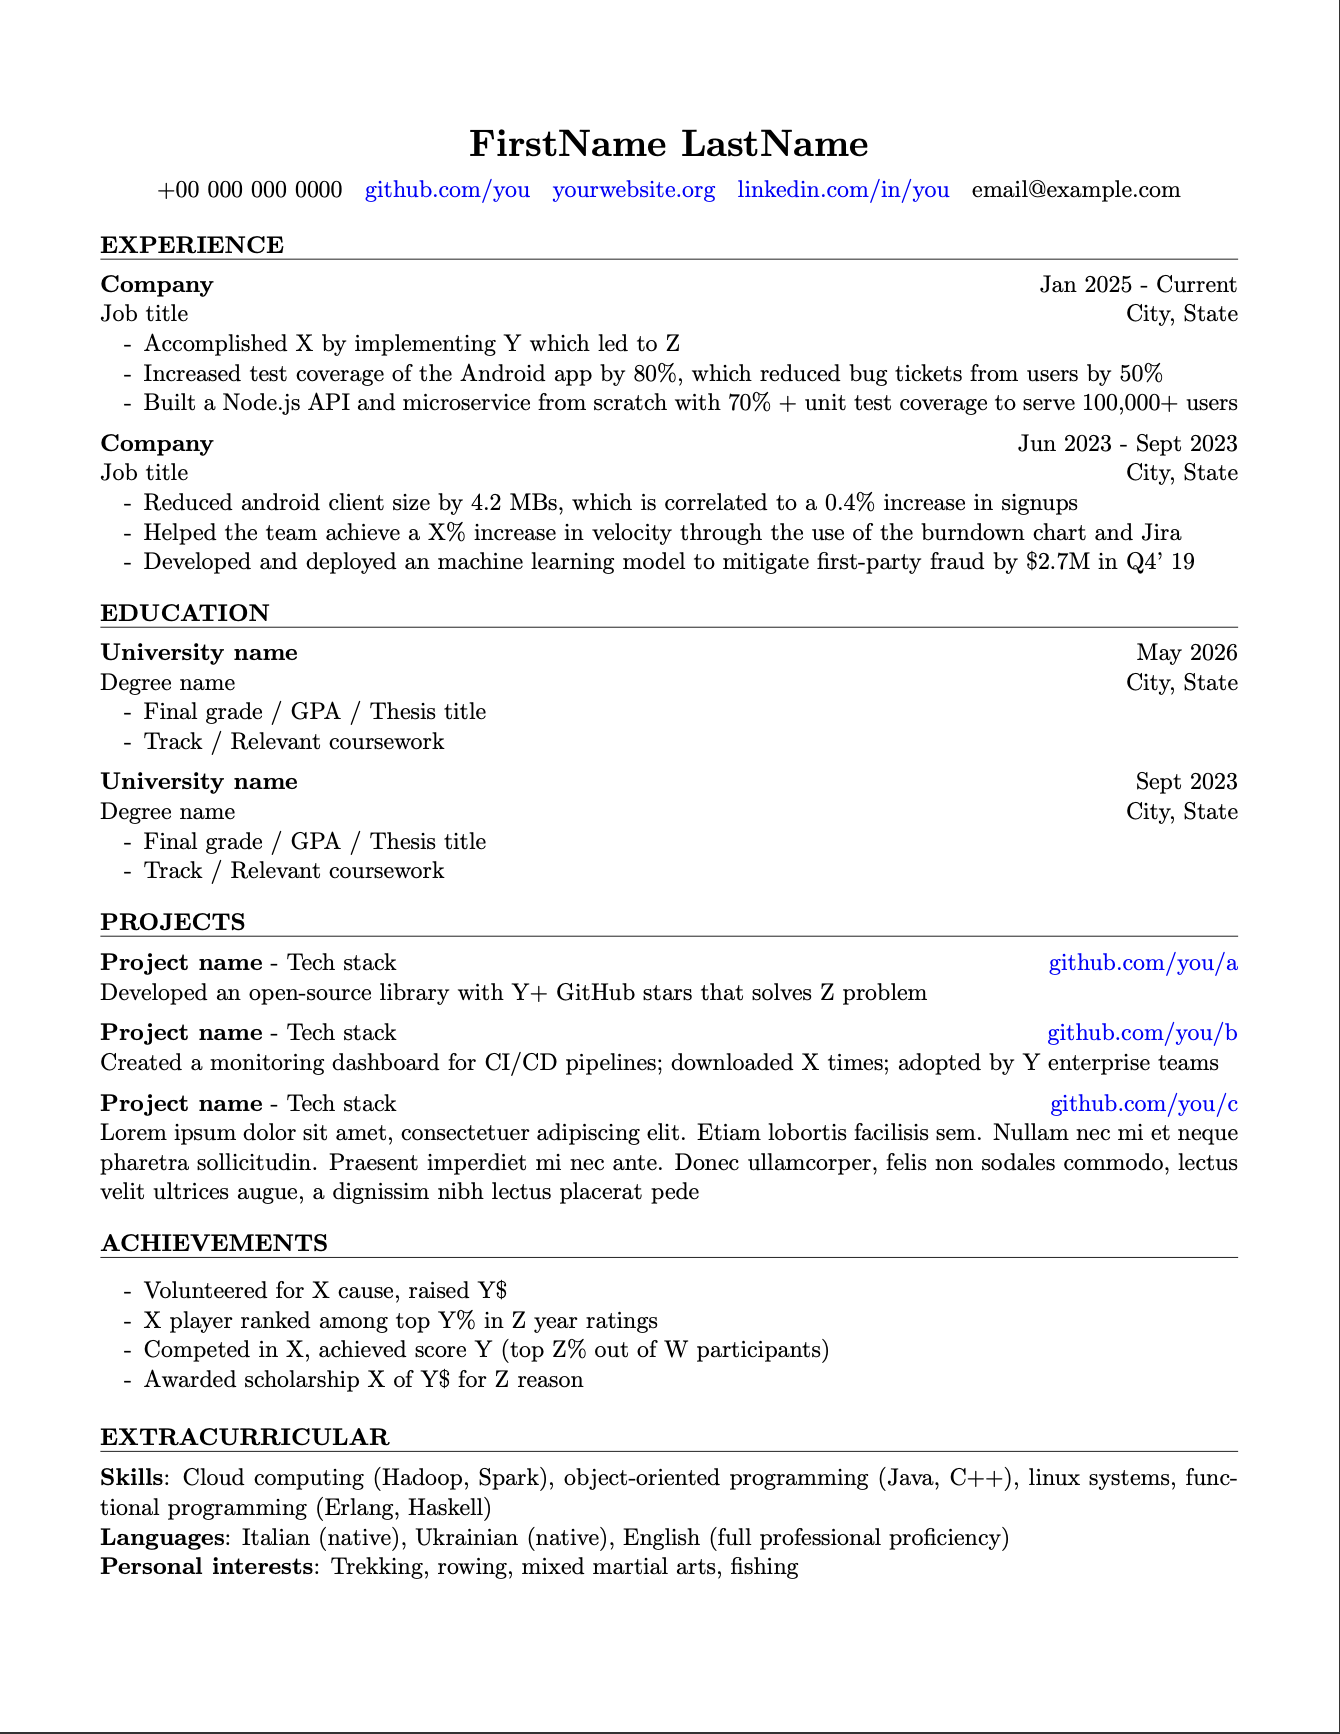
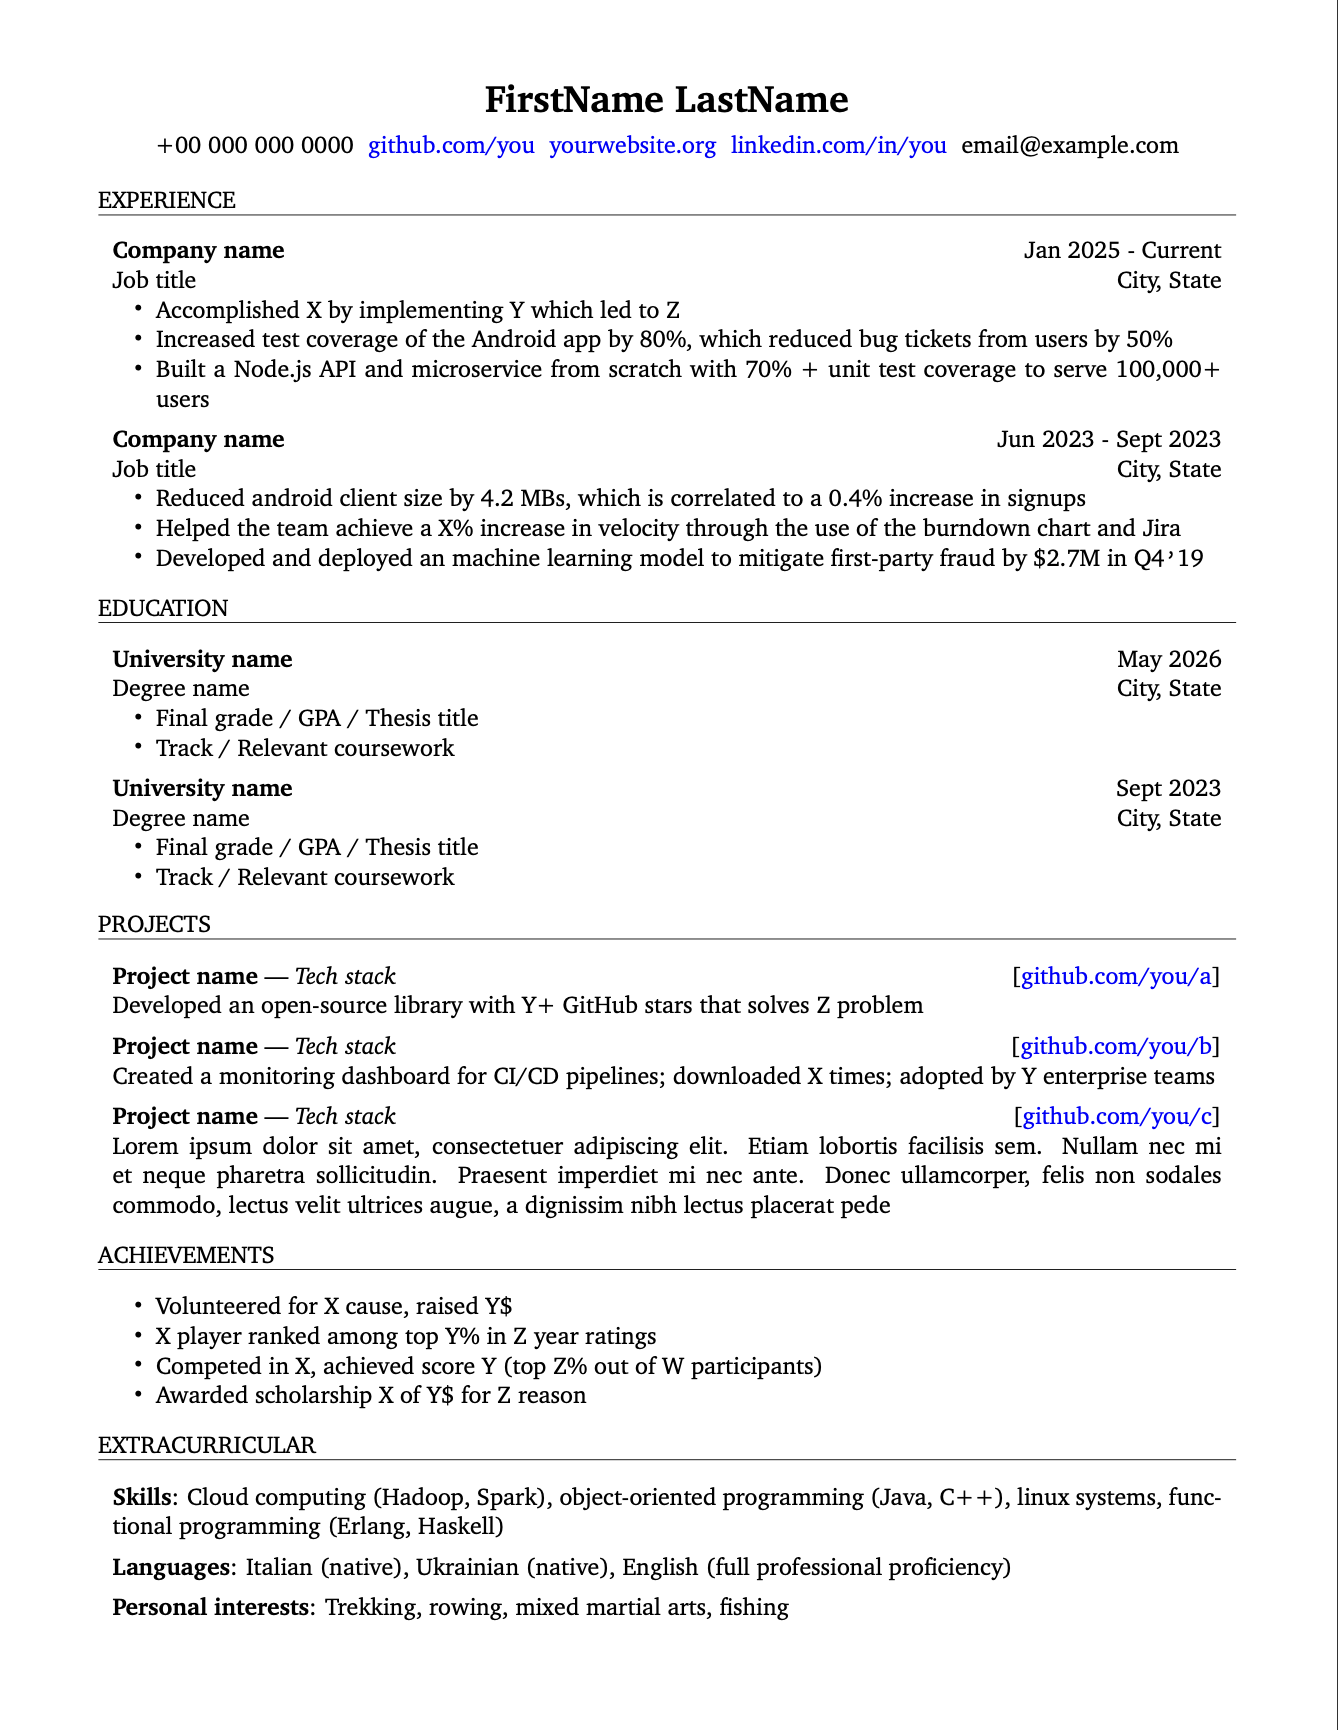
Minor appearance tweaks

diff --git a/main.tex b/main.tex
@@ -18,9 +18,10 @@
 % --- PACKAGES ---
 
 % Packages expand the functionality of plain LaTeX. We are only going to use the bare minimum:
-\usepackage{geometry} % A standard package for adjusting the layout of the document
-\usepackage{hyperref} % Clickable links/urls
-\usepackage{enumitem} % Gives fine control over lists
+\usepackage{charter}    % A better looking font (IMO, feel free to remove)
+\usepackage{geometry}   % A standard package for adjusting the layout of the document
+\usepackage{hyperref}   % Clickable links/urls
+\usepackage{enumitem}   % Gives fine control over lists
 
 % --- PACKAGES SETTINGS ---
 
@@ -31,8 +32,8 @@
     % Not that big of a deal IMO, no one prints CVs nowadays. Change only if you have a reason to
     left=0.075\paperwidth,
     right=0.075\paperwidth,
-    top=0.075\paperheight,
-    bottom=0.075\paperheight
+    top=0.05\paperheight,
+    bottom=0.05\paperheight
     % Margins are expressed in percentages relative to the paper dimensions.
     % You can also specify the margins in millimiter (mm), inches (in) or points (pt)
 }
@@ -44,7 +45,8 @@
 }
 
 \setlist[itemize]{
-    label=-,          % If you want normal bullet points use \textbullet instead of -
+    % A slightly smaller bullet point instead, raised to be center aligned with the text
+    label=\raisebox{1pt}{\footnotesize\textbullet},
     topsep=0pt,       % No space above/below the list
     itemsep=0pt,      % No space between items
     parsep=0pt,       % No space within items
@@ -54,12 +56,18 @@
 % --- CUSTOM COMMANDS ---
 
 \newcommand
-{\newsection}[1]{
-    \vspace{10pt}   % Vertical space to separate from the section above
-    \textbf{#1}     % The section title (passed as the only [1] argument)
-    \vspace{3pt}    
+{\opensection}[1]{
+    \uppercase{#1}  % The section title (passed as the only [1] argument)
+    \vspace{3pt}    % Vertical space to separate from the section above
     \hrule          % An horizontal line
-    \vspace{7pt}
+    \begin{center}  % Slightly offset the contents of the section
+    \begin{minipage}[]{0.975\textwidth}
+}
+
+\newcommand
+{\closesection}{
+    \end{minipage}
+    \end{center}
 }
 
 \newcommand
@@ -103,10 +111,7 @@
 
 % --- EXPERIENCE ---
 
-\vspace{-10pt} 
-% Balances the vspace introduce by the \newsection tag (it's the first section)
-
-\newsection{EXPERIENCE}
+\opensection{Experience}
 
 \textbf{Company name} \hfill Jan 2025 - Current \\
 Job title \hfill City, State
@@ -124,12 +129,14 @@ Job title \hfill City, State
 \begin{itemize}
     \item Reduced android client size by 4.2 MBs, which is correlated to a 0.4\% increase in signups
     \item Helped the team achieve a X\% increase in velocity through the use of the burndown chart and Jira
-    \item Developed and deployed an machine learning model to mitigate first-party fraud by \$2.7M in Q4' 19
+    \item Developed and deployed an machine learning model to mitigate first-party fraud by \$2.7M in Q4\texttt{'}19
 \end{itemize}
+
+\closesection
 
 % --- EDUCATION ---
 
-\newsection{EDUCATION}
+\opensection{Education}
 
 \textbf{University name} \hfill May 2026 \\
 Degree name \hfill City, State
@@ -151,29 +158,33 @@ Degree name \hfill City, State
     \item Track / Relevant coursework
 \end{itemize}
 
+\closesection
+
 % --- PROJECTS ---
 
-\newsection{PROJECTS}
+\opensection{Projects}
 
-\textbf{Project name} - Tech stack
-\hfill \href{https://github.com/you}{github.com/you/a} \\
+\textbf{Project name} | \textit{Tech stack}
+\hfill [\href{https://github.com/you}{github.com/you/a}] \\
 Developed an open-source library with Y+ GitHub stars that solves Z problem
 
 \smallvspace
 
-\textbf{Project name} - Tech stack
-\hfill \href{https://github.com/you}{github.com/you/b} \\
+\textbf{Project name} | \textit{Tech stack}
+\hfill [\href{https://github.com/you}{github.com/you/b}] \\
 Created a monitoring dashboard for CI/CD pipelines; downloaded X times; adopted by Y enterprise teams
 
 \smallvspace
 
-\textbf{Project name} - Tech stack
-\hfill \href{https://github.com/you}{github.com/you/c} \\
+\textbf{Project name} | \textit{Tech stack}
+\hfill [\href{https://github.com/you}{github.com/you/c}] \\
 Lorem ipsum dolor sit amet, consectetuer adipiscing elit. Etiam lobortis facilisis sem. Nullam nec mi et neque pharetra sollicitudin. Praesent imperdiet mi nec ante. Donec ullamcorper, felis non sodales commodo, lectus velit ultrices augue, a dignissim nibh lectus placerat pede
 
-% --- SKILLS ---
+\closesection
 
-\newsection{ACHIEVEMENTS}
+% --- ACHIEVEMENTS ---
+
+\opensection{Achievements}
 
 \begin{itemize}
     \item Volunteered for X cause, raised Y\$
@@ -182,14 +193,22 @@ Lorem ipsum dolor sit amet, consectetuer adipiscing elit. Etiam lobortis facilis
     \item Awarded scholarship X of Y\$ for Z reason
 \end{itemize}
 
+\closesection
+
 % --- EXTRACURRICULAR ---
 
-\newsection{EXTRACURRICULAR}
+\opensection{Extracurricular}
 
 \textbf{Skills}: Cloud computing (Hadoop, Spark), object-oriented programming (Java, C++), linux systems, functional programming (Erlang, Haskell)
 
+\smallvspace
+
 \textbf{Languages}: Italian (native), Ukrainian (native), English (full professional proficiency)
 
+\smallvspace
+
 \textbf{Personal interests}: Trekking, rowing, mixed martial arts, fishing
+
+\closesection
 
 \end{document}

diff --git a/README.md b/README.md
@@ -1,64 +1,12 @@
 # Bare-Metal CV
 
-Bare-Metal CV is a minimal (yet professional), beginner-friendly (for real), easily-customizable CV/resume template in ~100 lines of LaTeX
+Bare-Metal CV is a minimal (yet professional), beginner-friendly CV/resume template in ~100 lines of LaTeX
 
 To use it, open [main.tex](main.tex) (either copy/paste or download it) in your favorite LaTeX editor (if you don't have one, use [overleaf](https://overleaf.com))
 
 <img src="preview.png" alt="Example" width=550>
 
----
-
-Don't believe it?
-
-```latex
-\documentclass[11pt]{article} 
-\pagestyle{empty}
-\setlength{\parindent}{0pt} 
-
-\usepackage{geometry}
-\usepackage{hyperref}
-\usepackage{enumitem}
-
-\geometry{
-    letterpaper,
-    left=0.075\paperwidth,
-    right=0.075\paperwidth,
-    top=0.075\paperheight,
-    bottom=0.075\paperheight
-}
-
-\hypersetup{
-    colorlinks=true,
-    linkcolor=blue,
-    urlcolor=blue
-}
-
-\setlist[itemize]{
-    label=-,          
-    topsep=0pt,       
-    itemsep=0pt,      
-    parsep=0pt,       
-    leftmargin=20pt
-}
-
-\newcommand
-{\newsection}[1]{
-    \vspace{10pt} 
-    \textbf{#1}   
-    \vspace{3pt}    
-    \hrule        
-    \vspace{7pt}
-}
-
-\newcommand
-{\smallvspace}{
-    \vspace{5pt}
-}
-```
-
-That's it, that's the LaTeX preamble, those are all the required settings for this template.
-
-No obscure LaTeX packages, just `geometry`, `hyperref` and `enumitem`.
+No obscure LaTeX packages, just `geometry`, `hyperref` and `enumitem` (plus a the `charter` font).
 
 No weird commands, configuration settings or hard to understand syntactic sugars.
 
